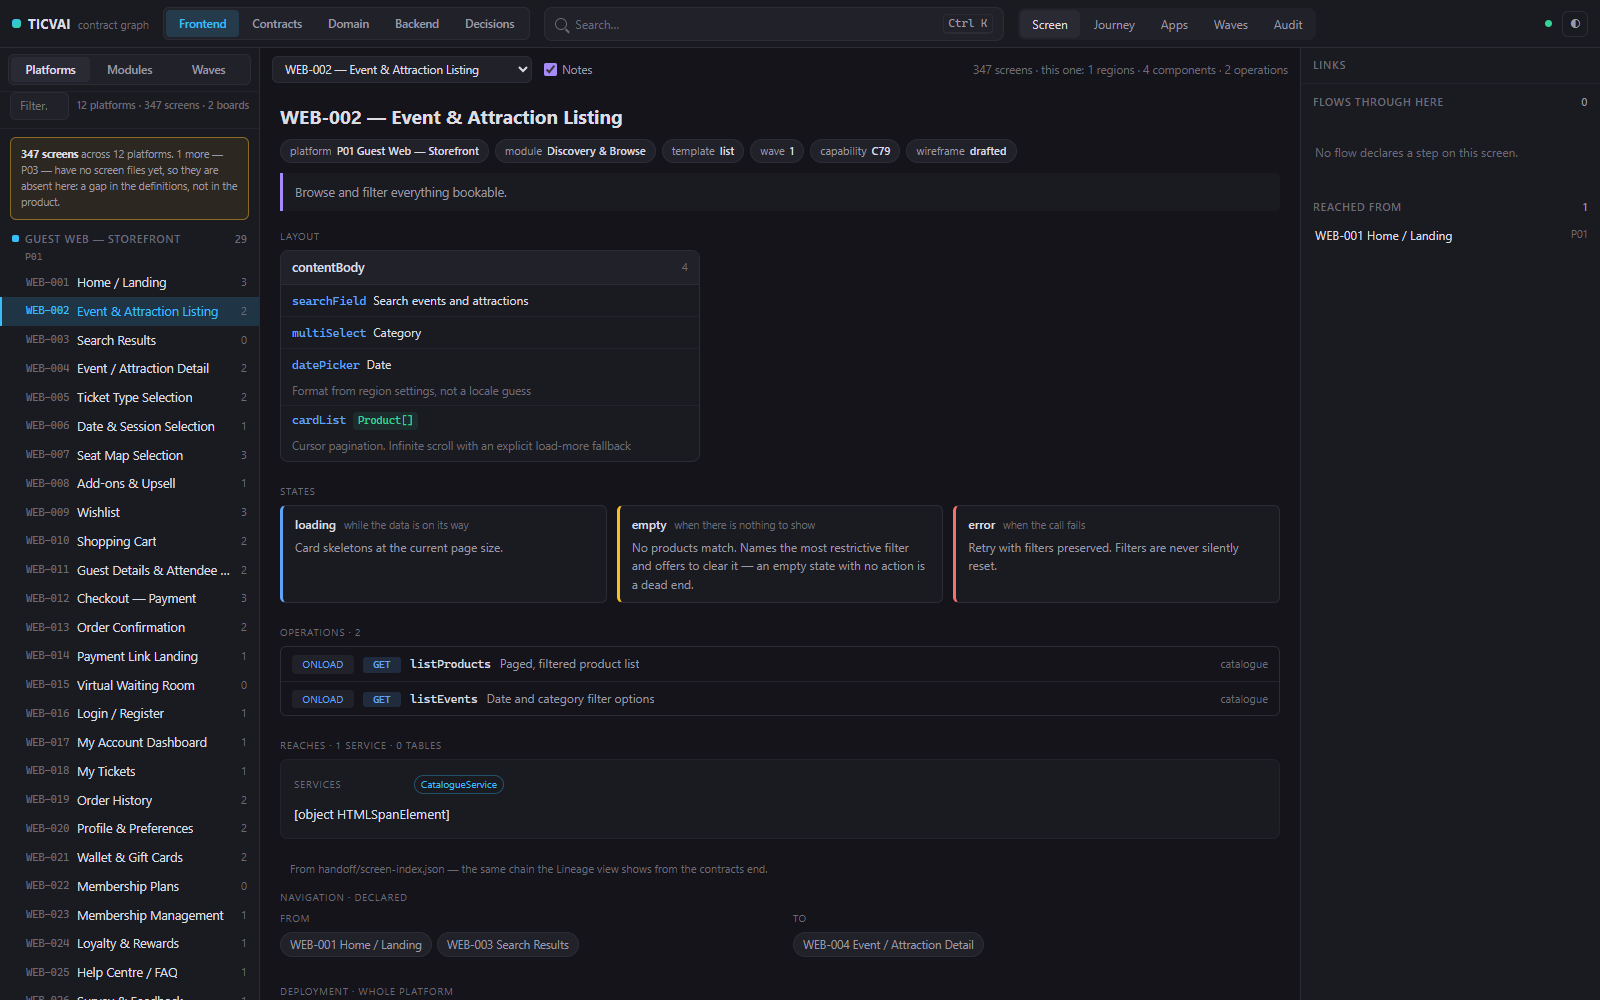
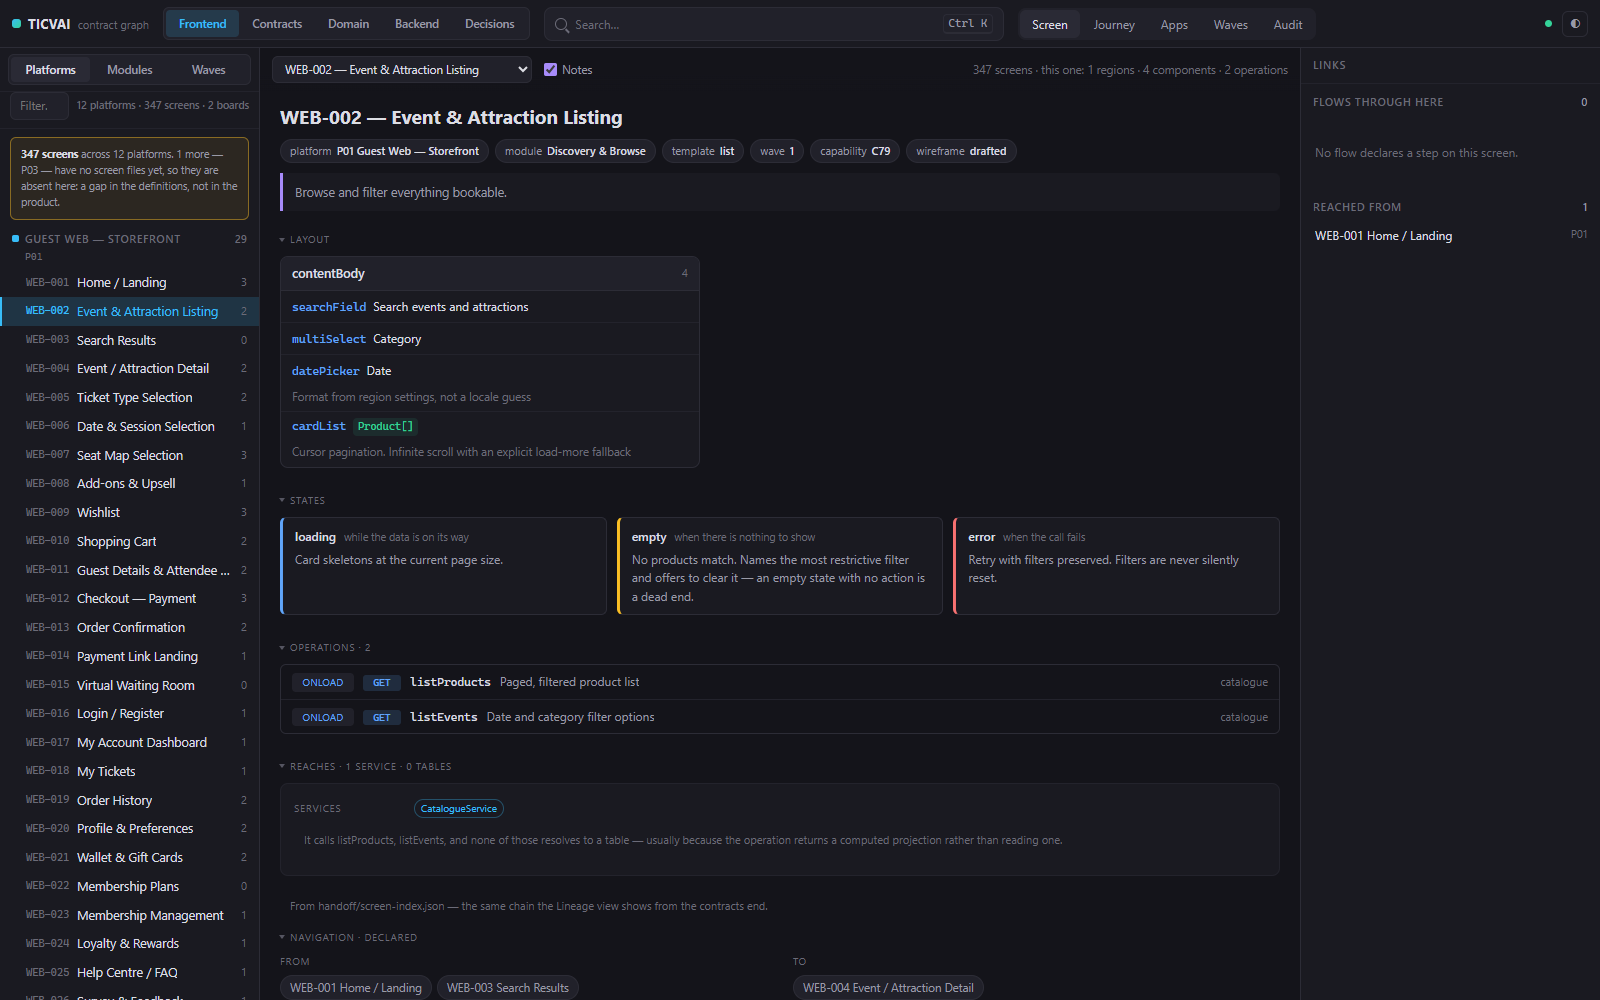
Fold every section, and stop loading the whole delivery at boot
A screen said "[object HTMLSpanElement]" where its explanation belonged. The
el() helper takes text and assigns it to textContent, and one call site handed
it an element, so the browser stringified it onto the page for a reader to
find. Fixed at the call site, and el() now appends a node rather than
stringifying one, so the next person to make that mistake sees what they meant.

Sections fold. Every pane builds a section the same way — a label, then its
content as siblings up to the next label — and holding to that one shape in 35
places is what lets this be a single delegated handler rather than 35 edits. A
section written tomorrow is collapsible the day it is written. The choice is
kept per view and heading, so it survives a re-render, and it reaches the
keyboard and a thumb. 15/15 in collapse-check.

Boot fetched all seven payloads before anything could be read: 4.77 MB and
four seconds, six of them for layers nobody had opened. Each part is now
fetched when a layer that needs it is opened. 4.77 MB -> 3.02 MB.

Two things had to be got right for that to be safe. The pickers and the
laid-out diagrams were filled once at boot, when every part was in hand; a
picker built from an absent part holds nothing and would never be filled
again, so each part now refreshes what is built from it. And the contracts
spine draws one edge per pair of contracts sharing an event, which comes from
the domain part — so contracts needs it too. Both were caught by the suite
[…]

diff --git a/viewer/public/app.js b/viewer/public/app.js
@@ -265,7 +265,11 @@ const $ = (id) => document.getElementById(id);
 const el = (tag, className, text) => {
   const node = document.createElement(tag);
   if (className) node.className = className;
-  if (text != null) node.textContent = text;
+  // A node passed here used to be stringified into "[object HTMLSpanElement]"
+  // and rendered as that, in the page, where a reader would see it. Append it
+  // instead, which is plainly what the caller meant.
+  if (text instanceof Node) node.append(text);
+  else if (text != null) node.textContent = text;
   return node;
 };
 
@@ -472,6 +476,7 @@ async function boot() {
   renderLayers();
   bindUI();
   connectLiveReload();
+  bindSections();
   // delegated, so everything rendered from here on carries its tips without
   // being wired up individually
   installTips();
@@ -492,6 +497,10 @@ async function boot() {
   } else {
     setMode('graph');
   }
+
+  // The layer the app opens on never went through setLayer, so nothing has
+  // asked for its parts yet.
+  hydrateLayer();
 }
 
 // ── layer switching ──────────────────────────────────────────────────
@@ -563,27 +572,126 @@ function setLayer(key) {
   renderSidePane();
   renderAudit();
   setMode(next);
+
+  // Draw with what is here, then draw again with what arrives. On a layer
+  // whose parts are already in hand this does nothing at all.
+  hydrateLayer(key);
+}
+
+/**
+ * What each layer opens on. These used to be picked at boot, when every part
+ * was already in hand; a part now arrives later, so they are picked when it
+ * does — and only if the reader has not already chosen for themselves.
+ */
+function applyPartDefaults() {
+  // the whole database, so the first thing seen is the shape of it
+  if (!state.dataModule && state.backend?.modules?.length) state.dataModule = ALL_SCHEMAS;
+  if (!state.screenId) state.screenId = state.journeys?.screens?.[0]?.id ?? null;
+  // the order machine first: fourteen transitions, four reversals and every
+  // approval rule in the platform, so it shows what the view is for
+  if (!state.machineId) {
+    state.machineId =
+      state.domain?.machines?.find((m) => m.id === 'order')?.id ??
+      state.domain?.machines?.[0]?.id ?? null;
+  }
+}
+
+/**
+ * Fetches whatever the layer still needs, then rebuilds what was built from
+ * it. The pickers and the laid-out diagrams are the subtle part: they used to
+ * be filled once at boot, when every part was already in hand. A picker built
+ * from a part that had not arrived holds nothing, and nothing would ever fill
+ * it again — so each part refreshes exactly what is made from it.
+ */
+function hydrateLayer(key = state.layer) {
+  return ensureParts(LAYER_PARTS[key] ?? [], key).then((arrived) => {
+    if (!arrived.length) return;
+    applyPartDefaults();
+
+    if (arrived.includes('backend')) renderData();
+    if (arrived.includes('domain')) {
+      fillMachineSelect();
+      fillEventSelect();
+    }
+    // setMode only resizes an already-drawn canvas, so the graph would keep
+    // whatever it drew before the part landed — for the spine, no edges at all.
+    renderGraph();
+
+    renderSideGroups();
+    renderTree();
+    renderSideNote();
+    renderSidePane();
+    renderAudit();
+    setMode(state.mode);
+  });
+}
+
+// ── loading the delivery, a layer at a time ─────────────────────────
+// Fetching all seven payloads up front cost 4.8 MB and four seconds before
+// anything could be read, and six of the seven were for layers the reader had
+// not opened. Each part is fetched when a layer that needs it is opened, and
+// the view re-renders when it lands. Every render path already tolerates a
+// missing part — they were all fetched with .catch(() => null) — so "not here
+// yet" is a state the app was already built to survive.
+
+/** Which parts a layer cannot be drawn without. */
+const LAYER_PARTS = {
+  frontend: ['journeys', 'lineage'],
+  // the spine graph draws one edge per pair of contracts that share an event,
+  // and the events are in the domain part — so contracts needs it too
+  contracts: ['lineage', 'domain'],
+  backend: ['backend', 'lineage'],
+  domain: ['domain'],
+  decisions: ['decisions'],
+};
+const ALL_PARTS = ['journeys', 'backend', 'domain', 'lineage', 'decisions'];
+
+const partInFlight = new Map();
+
+/** Fetches one part once, no matter how many views ask for it at the time. */
+function loadPart(key) {
+  if (state[key]) return Promise.resolve(state[key]);
+  if (partInFlight.has(key)) return partInFlight.get(key);
+  const request = fetch(`/api/${key}`)
+    .then((r) => r.json())
+    .catch(() => null)
+    .then((data) => {
+      state[key] = data;
+      partInFlight.delete(key);
+      return data;
+    });
+  partInFlight.set(key, request);
+  return request;
+}
+
+/**
+ * Makes sure a layer's parts are in hand, then redraws — but only if the
+ * reader is still on that layer. Switching away twice while two fetches are in
+ * flight must not repaint the layer they have since left.
+ */
+async function ensureParts(keys, layerAtRequest) {
+  const missing = keys.filter((k) => !state[k]);
+  if (!missing.length) return [];
+  document.body.dataset.loading = '1';
+  await Promise.all(missing.map(loadPart));
+  delete document.body.dataset.loading;
+  if (layerAtRequest && state.layer !== layerAtRequest) return [];
+  return missing;
 }
 
 async function loadIndex() {
-  // all three layers resolve against the contracts and rebuild together, so
-  // they are fetched together — the audit needs every layer's problems anyway
-  const [index, journeys, backend, domain, lineage, tooltips, decisions] = await Promise.all([
-    fetch('/api/index').then((r) => r.json()),
-    fetch('/api/journeys').then((r) => r.json()).catch(() => null),
-    fetch('/api/backend').then((r) => r.json()).catch(() => null),
-    fetch('/api/domain').then((r) => r.json()).catch(() => null),
-    fetch('/api/lineage').then((r) => r.json()).catch(() => null),
-    fetch('/api/tooltips').then((r) => r.json()).catch(() => null),
-    fetch('/api/decisions').then((r) => r.json()).catch(() => null),
-  ]);
+  // The index is the one part nothing can be drawn without: the tree, the
+  // graph and every selection resolve against it.
+  const index = await fetch('/api/index').then((r) => r.json());
   state.index = index;
-  state.journeys = journeys;
-  state.backend = backend;
-  state.domain = domain;
-  state.lineage = lineage;
-  state.tooltips = tooltips;
-  state.decisions = decisions;
+  state.journeys = null;
+  state.backend = null;
+  state.domain = null;
+  state.lineage = null;
+  state.decisions = null;
+
+  // Small, and read by every layer's hover text, so it is not worth deferring.
+  state.tooltips = await fetch('/api/tooltips').then((r) => r.json()).catch(() => null);
 
   state.nodesById = new Map(index.nodes.map((n) => [n.id, n]));
 
@@ -616,14 +724,7 @@ async function loadIndex() {
   state.erScope = state.erScope ?? defaultFile;
   fillScopeSelect($('er-scope'), state.erScope);
 
-  // defaults for the other two layers, so neither opens empty
-  // opens on the whole database, so the first thing seen is the shape of it
-  state.dataModule = state.dataModule ?? (backend?.modules?.length ? ALL_SCHEMAS : null);
-  state.screenId = state.screenId ?? journeys?.screens?.[0]?.id ?? null;
-  // the order machine first: fourteen transitions, four reversals and every
-  // approval rule in the platform, so it shows what the view is for
-  state.machineId =
-    state.machineId ?? domain?.machines?.find((m) => m.id === 'order')?.id ?? domain?.machines?.[0]?.id ?? null;
+  applyPartDefaults();
 
   renderSideGroups();
   renderTree();
@@ -632,9 +733,9 @@ async function loadIndex() {
   renderAudit();
   renderGraph();
   renderER();
-  renderData(); // laid out at load, so the backend layer opens already settled
-  fillMachineSelect();
-  fillEventSelect();
+  // The data diagram and the two domain pickers are built from parts that are
+  // now fetched on demand, so they are filled by hydrateLayer when those parts
+  // arrive rather than here, where there would be nothing to fill them with.
 }
 
 /** Problems belong to the layer that produced them. */
@@ -6050,6 +6151,87 @@ function toast(message) {
 }
 
 // ── wiring ───────────────────────────────────────────────────────────
+// ── collapsible sections ────────────────────────────────────────────
+// Every pane in the app builds a section the same way: a section label
+// followed by its content as siblings, up to the next label. That one shape,
+// held to in 35 places, is what lets this be a single handler rather than 35
+// edits — and what makes a new section collapsible the day it is written,
+// without its author doing anything.
+
+/** Sections the reader has shut, by view and heading, so the choice survives
+ *  a re-render — and so collapsing "operations" on one screen does not also
+ *  collapse the notes on another. */
+const collapsedSections = new Set();
+const sectionKey = (label) =>
+  `${state.layer}/${state.mode}/${label.textContent.trim().toLowerCase()}`;
+
+/** A section owns every sibling after its label, up to the next label. */
+function sectionBody(label) {
+  const out = [];
+  for (
+    let node = label.nextElementSibling;
+    node && !node.classList.contains('journey-section-label');
+    node = node.nextElementSibling
+  ) out.push(node);
+  return out;
+}
+
+function applyCollapse(label) {
+  const shut = collapsedSections.has(sectionKey(label));
+  label.classList.toggle('collapsed', shut);
+  label.setAttribute('aria-expanded', String(!shut));
+  if (!label.hasAttribute('tabindex')) {
+    label.setAttribute('tabindex', '0');
+    label.setAttribute('role', 'button');
+  }
+  const body = sectionBody(label);
+  for (const node of body) node.hidden = shut;
+  // A heading that hides nothing is not a control; say so rather than inviting
+  // a click that does nothing.
+  label.classList.toggle('empty-section', body.length === 0);
+}
+
+function toggleSection(label) {
+  if (!sectionBody(label).length) return;
+  const key = sectionKey(label);
+  if (collapsedSections.has(key)) collapsedSections.delete(key);
+  else collapsedSections.add(key);
+  applyCollapse(label);
+}
+
+/** Re-applies the reader's choices to whatever a render just produced. */
+function refreshSections(root = document) {
+  for (const label of root.querySelectorAll('.journey-section-label')) applyCollapse(label);
+}
+
+function bindSections() {
+  document.addEventListener('click', (event) => {
+    const label = event.target.closest('.journey-section-label');
+    if (label) toggleSection(label);
+  });
+  document.addEventListener('keydown', (event) => {
+    if (event.key !== 'Enter' && event.key !== ' ') return;
+    const label = event.target.closest?.('.journey-section-label');
+    if (!label) return;
+    event.preventDefault();
+    toggleSection(label);
+  });
+
+  // Panes re-render constantly and rebuild their DOM each time. Watching for
+  // new labels keeps the collapse state without every render path having to
+  // remember to ask for it.
+  const observer = new MutationObserver((records) => {
+    for (const record of records) {
+      for (const node of record.addedNodes) {
+        if (node.nodeType !== 1) continue;
+        if (node.classList?.contains('journey-section-label')) applyCollapse(node);
+        else if (node.querySelector?.('.journey-section-label')) refreshSections(node);
+      }
+    }
+  });
+  observer.observe(document.body, { childList: true, subtree: true });
+}
+
 function bindUI() {
   // the layer and mode bars are rebuilt on every switch, so they wire
   // themselves in renderLayers / renderModes rather than here

diff --git a/viewer/public/styles.css b/viewer/public/styles.css
@@ -688,6 +688,40 @@ kbd {
   font-size: 10px; text-transform: uppercase; letter-spacing: .07em;
   color: var(--text-faint); margin: 2px 0 -2px;
 }
+
+/* Every section heading folds its own content away. The marker is part of the
+   heading rather than a separate button, so the whole label is the target —
+   which is what makes it usable with a thumb. */
+.journey-section-label {
+  display: flex; align-items: center; gap: 6px;
+  cursor: pointer; user-select: none;
+  padding: 3px 0;
+  min-height: 20px;
+}
+.journey-section-label::before {
+  content: '';
+  flex: none;
+  width: 0; height: 0;
+  border-left: 4px solid currentColor;
+  border-top: 3.5px solid transparent;
+  border-bottom: 3.5px solid transparent;
+  transform: rotate(90deg);
+  transition: transform .13s ease;
+  opacity: .75;
+}
+.journey-section-label.collapsed::before { transform: rotate(0deg); }
+.journey-section-label:hover { color: var(--text-dim); }
+.journey-section-label:focus-visible {
+  outline: 1px solid var(--accent);
+  outline-offset: 2px;
+  border-radius: 3px;
+}
+/* a heading with nothing under it is not a control */
+.journey-section-label.empty-section {
+  cursor: default;
+  pointer-events: none;
+}
+.journey-section-label.empty-section::before { visibility: hidden; }
 .journey-questions {
   margin-top: 22px; max-width: 900px;
   padding: 11px 13px;
